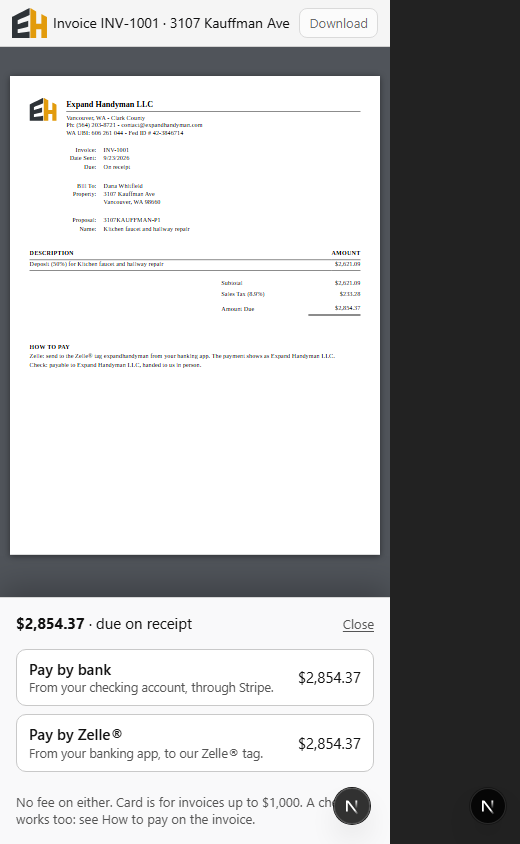
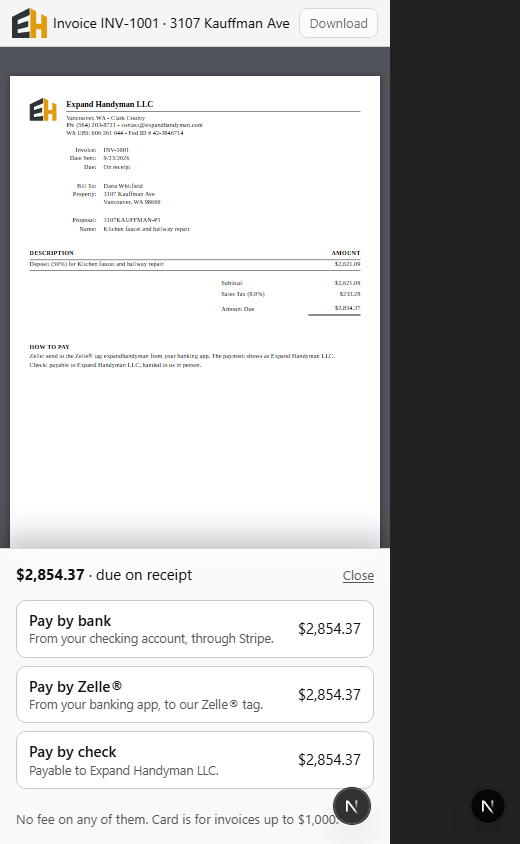
Sketch D: Pay by check as a fourth row, with its own step (#112)

Changed region(s): [[0.0, 0.6161, 0.7692, 0.9858]]

diff --git a/components/prototype-pay-now/link-prototype.tsx b/components/prototype-pay-now/link-prototype.tsx
@@ -53,7 +53,7 @@ type Variant = (typeof VariantKeys)[number];
 const ReadingKeys = ["unpaid", "small", "onway", "paid"] as const;
 // `?show=` opens a state a press would reach, for screenshots: the sheet, the
 // Zelle step, or the stand-in checkout for bank or card.
-const ShowKeys = ["", "sheet", "zelle", "bank", "card"] as const;
+const ShowKeys = ["", "sheet", "zelle", "check", "bank", "card"] as const;
 type Show = (typeof ShowKeys)[number];
 
 export function LinkPrototype() {
@@ -96,9 +96,13 @@ function LinkPage({
   const [checkout, setCheckout] = useState<PayChoice | null>(
     show === "bank" ? startChoices[0] : show === "card" ? startChoices[1] : null,
   );
-  const [sheet, setSheet] = useState(show === "sheet" || show === "zelle");
-  // D's sheet, turned to the Zelle step.
-  const [zelle, setZelle] = useState(show === "zelle");
+  const [sheet, setSheet] = useState(
+    show === "sheet" || show === "zelle" || show === "check",
+  );
+  // D's sheet, turned to the Zelle or the check step.
+  const [step, setStep] = useState<SheetStep>(
+    show === "zelle" ? "zelle" : show === "check" ? "check" : null,
+  );
 
   const state: LinkState =
     outcome === "bank" || reading === "onway"
@@ -163,13 +167,12 @@ function LinkPage({
           amount={amount}
           invoiceNumber={paper.number}
           choices={choices}
-          zelle={zelle}
-          onZelle={() => setZelle(true)}
-          onBack={() => setZelle(false)}
+          step={step}
+          onStep={setStep}
           onPay={pay}
           onClose={() => {
             setSheet(false);
-            setZelle(false);
+            setStep(null);
           }}
         />
       ) : (
@@ -358,27 +361,29 @@ function PayButtonBar({
   );
 }
 
-// The sheet Pay opens: the three ways as rows, or, once Zelle is picked, what
-// to do in the banking app.
+type SheetStep = null | "zelle" | "check";
+
+// The sheet Pay opens: the ways as rows, or, once Zelle or check is picked,
+// what to do.
 function ThreeWaysSheet({
   amount,
   invoiceNumber,
   choices,
-  zelle,
-  onZelle,
-  onBack,
+  step,
+  onStep,
   onPay,
   onClose,
 }: {
   amount: string;
   invoiceNumber: string;
   choices: PayChoice[];
-  zelle: boolean;
-  onZelle: () => void;
-  onBack: () => void;
+  step: SheetStep;
+  onStep: (step: SheetStep) => void;
   onPay: (choice: PayChoice) => void;
   onClose: () => void;
 }) {
+  const zelle = step === "zelle";
+  const check = step === "check";
   const [bank, card] = choices;
   const [copied, setCopied] = useState(false);
   const copyTag = () => {
@@ -394,14 +399,22 @@ function ThreeWaysSheet({
                 <>
                   Pay <strong>{amount}</strong> by Zelle
                 </>
+              ) : check ? (
+                <>
+                  Pay <strong>{amount}</strong> by check
+                </>
               ) : (
                 <>
                   <strong>{amount}</strong> · due on receipt
                 </>
               )}
             </div>
-            <button type="button" className="paper-link" onClick={zelle ? onBack : onClose}>
-              {zelle ? "Back" : "Close"}
+            <button
+              type="button"
+              className="paper-link"
+              onClick={step ? () => onStep(null) : onClose}
+            >
+              {step ? "Back" : "Close"}
             </button>
           </div>
           {zelle ? (
@@ -437,6 +450,20 @@ function ThreeWaysSheet({
                 </span>
               </p>
             </>
+          ) : check ? (
+            <>
+              <ol className="pn-steps">
+                <li>
+                  Make the check out to <strong>Expand Handyman LLC</strong> for{" "}
+                  <strong>{amount}</strong>, with <strong>{invoiceNumber}</strong> on the memo
+                  line.
+                </li>
+                <li>Hand it to us in person, or mail it to the address at the top of the invoice.</li>
+              </ol>
+              <p className="pn-card-text">
+                We mark the invoice paid when the check clears, usually within a few days.
+              </p>
+            </>
           ) : (
             <>
               <div className="pn-choices">
@@ -454,16 +481,19 @@ function ThreeWaysSheet({
                     <span className="pn-choice-amount">{formatCentsExact(card.chargeCents)}</span>
                   </button>
                 ) : null}
-                <button type="button" className="pn-choice" onClick={onZelle}>
+                <button type="button" className="pn-choice" onClick={() => onStep("zelle")}>
                   <span className="pn-choice-name">Pay by Zelle®</span>
                   <span className="pn-choice-note">From your banking app, to our Zelle® tag.</span>
                   <span className="pn-choice-amount">{amount}</span>
                 </button>
+                <button type="button" className="pn-choice" onClick={() => onStep("check")}>
+                  <span className="pn-choice-name">Pay by check</span>
+                  <span className="pn-choice-note">Payable to Expand Handyman LLC.</span>
+                  <span className="pn-choice-amount">{amount}</span>
+                </button>
               </div>
               <p className="pn-card-text">
-                {card
-                  ? "No fee on any of them. A check works too: see How to pay on the invoice."
-                  : "No fee on either. Card is for invoices up to $1,000. A check works too: see How to pay on the invoice."}
+                {card ? "No fee on any of them." : "No fee on any of them. Card is for invoices up to $1,000."}
               </p>
             </>
           )}
